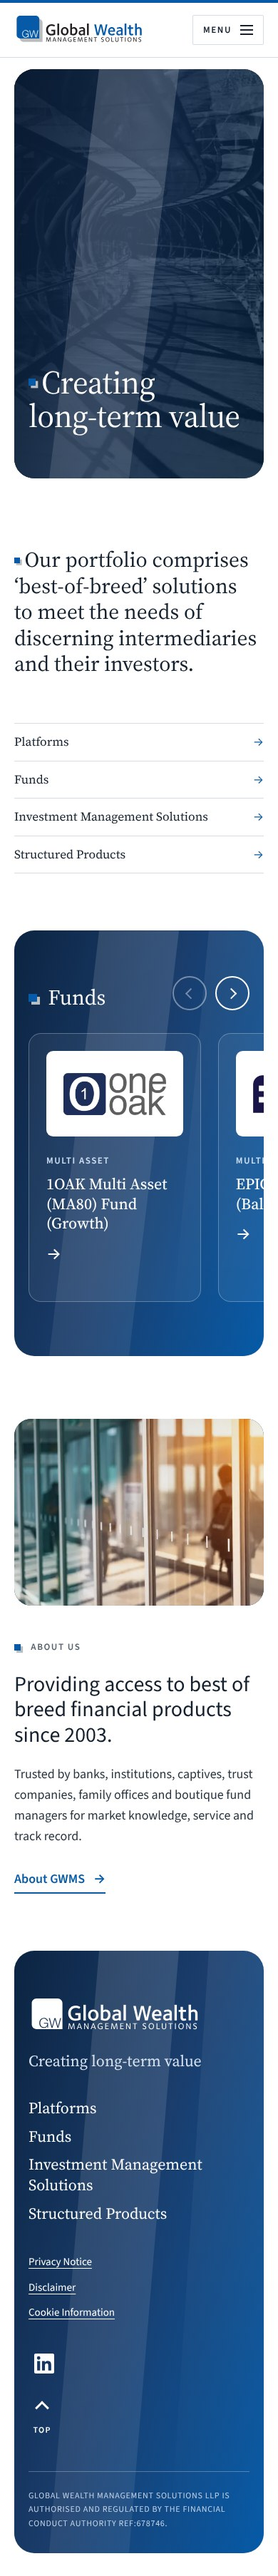
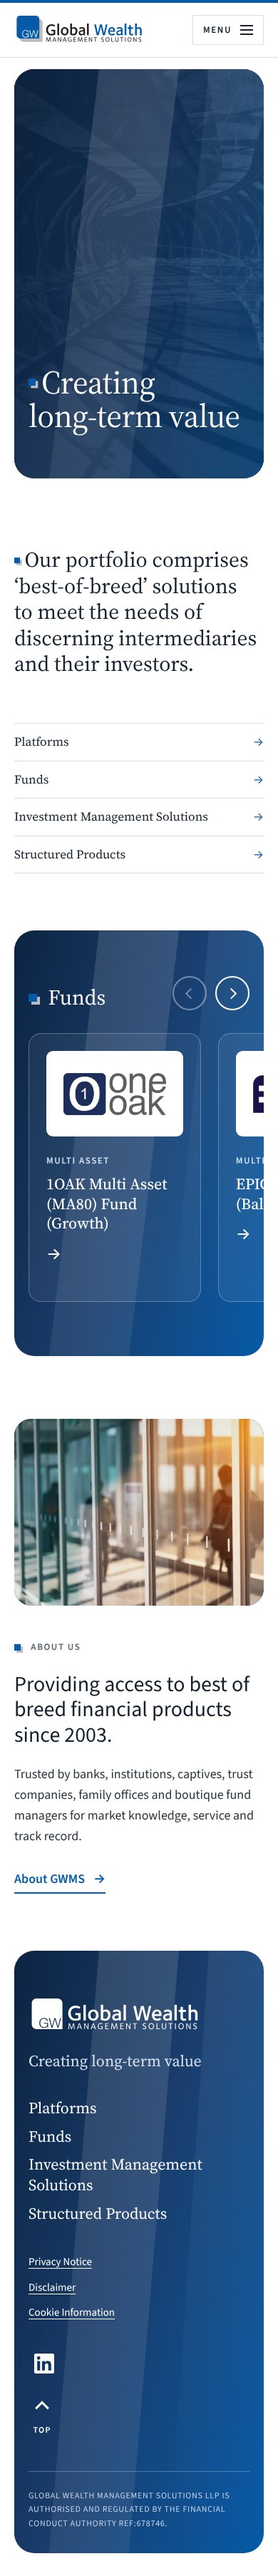
Concept home: hero overlay mirrors the Funds panel gradient and bands

Changed region(s): [[0.4923, 0.031, 0.9538, 0.186]]

diff --git a/preview/css/concept.css b/preview/css/concept.css
@@ -129,7 +129,15 @@
 .to-top:hover .to-top__tile { transform: translateY(-2px); }
 .to-top:focus-visible { outline: 3px solid #fff; outline-offset: 6px; }
 
-/* ---- Hero: diagonal band lifted above the photo veil and 10 points less transparent ---- */
-.hero--framed { --band-1: rgba(255, 255, 255, 0.18); --band-2: rgba(255, 255, 255, 0.12); }
-.hero--framed::before { z-index: 0; }
+/* ---- Hero overlay mirrors the Funds panel: navy -> blue gradient + two diagonal bands over the photo ---- */
+.hero--framed { --band-1: rgba(255, 255, 255, 0.13); --band-2: rgba(255, 255, 255, 0.07); }
+.hero--framed .hero__media::after { /* veil, translucent so the photo still shows */
+  content: ""; position: absolute; inset: 0;
+  background: linear-gradient(105deg, rgba(12, 36, 66, 0.90) 0%, rgba(26, 61, 108, 0.76) 48%, rgba(6, 90, 167, 0.62) 100%);
+}
+.hero--framed::before { z-index: 0; }                                   /* wide band, above photo + veil */
+.hero--framed::after {                                                  /* narrow second band (was the veil) */
+  z-index: 0; inset: 0; clip-path: polygon(78% 0, 100% 0, 100% 100%, 62% 100%);
+  background: linear-gradient(to bottom, var(--band-2), rgba(255, 255, 255, 0));
+}
 .hero--framed .hero__inner { position: relative; z-index: 1; }
